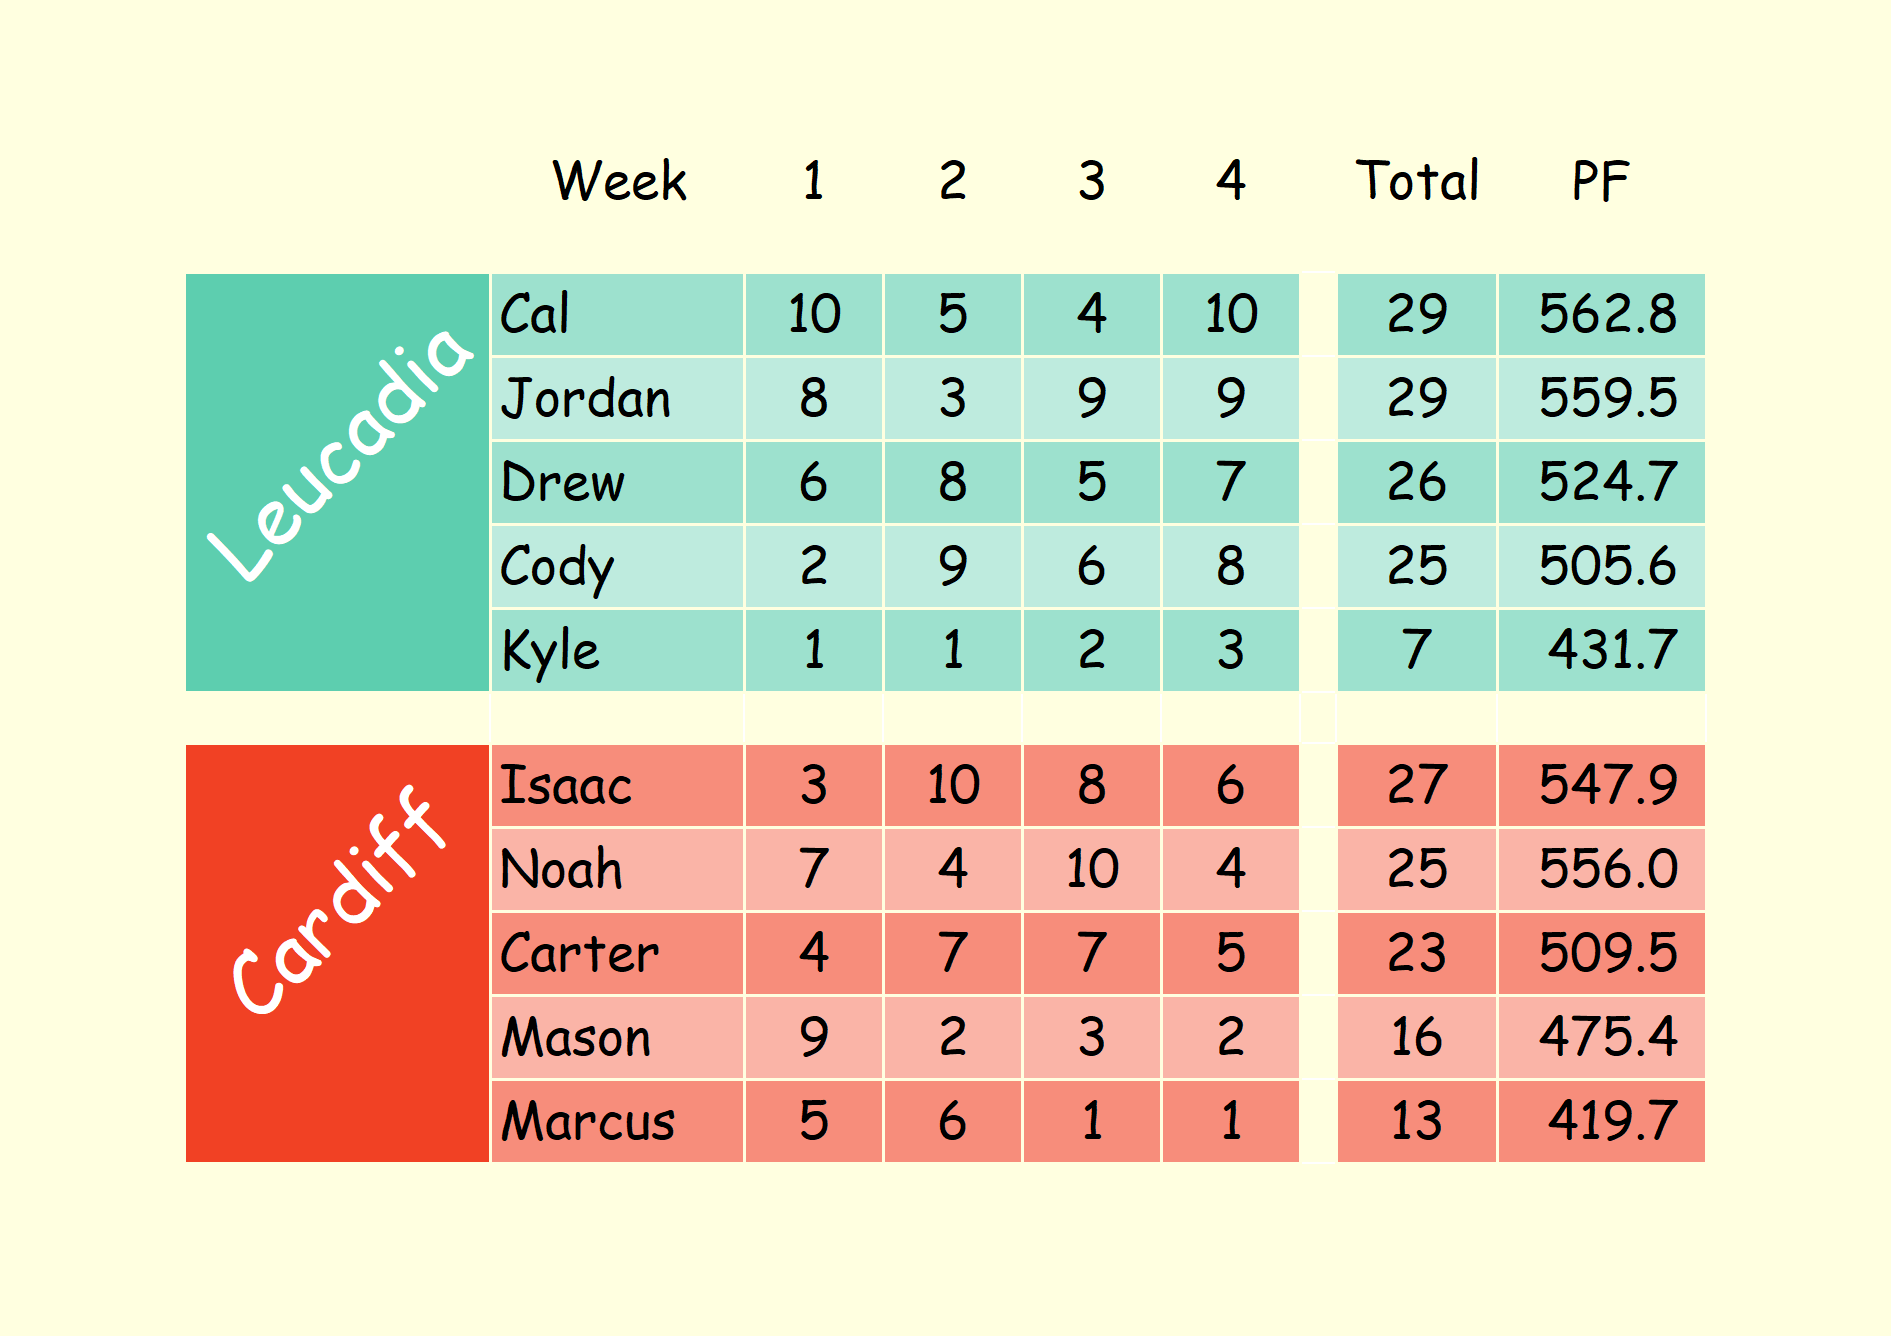
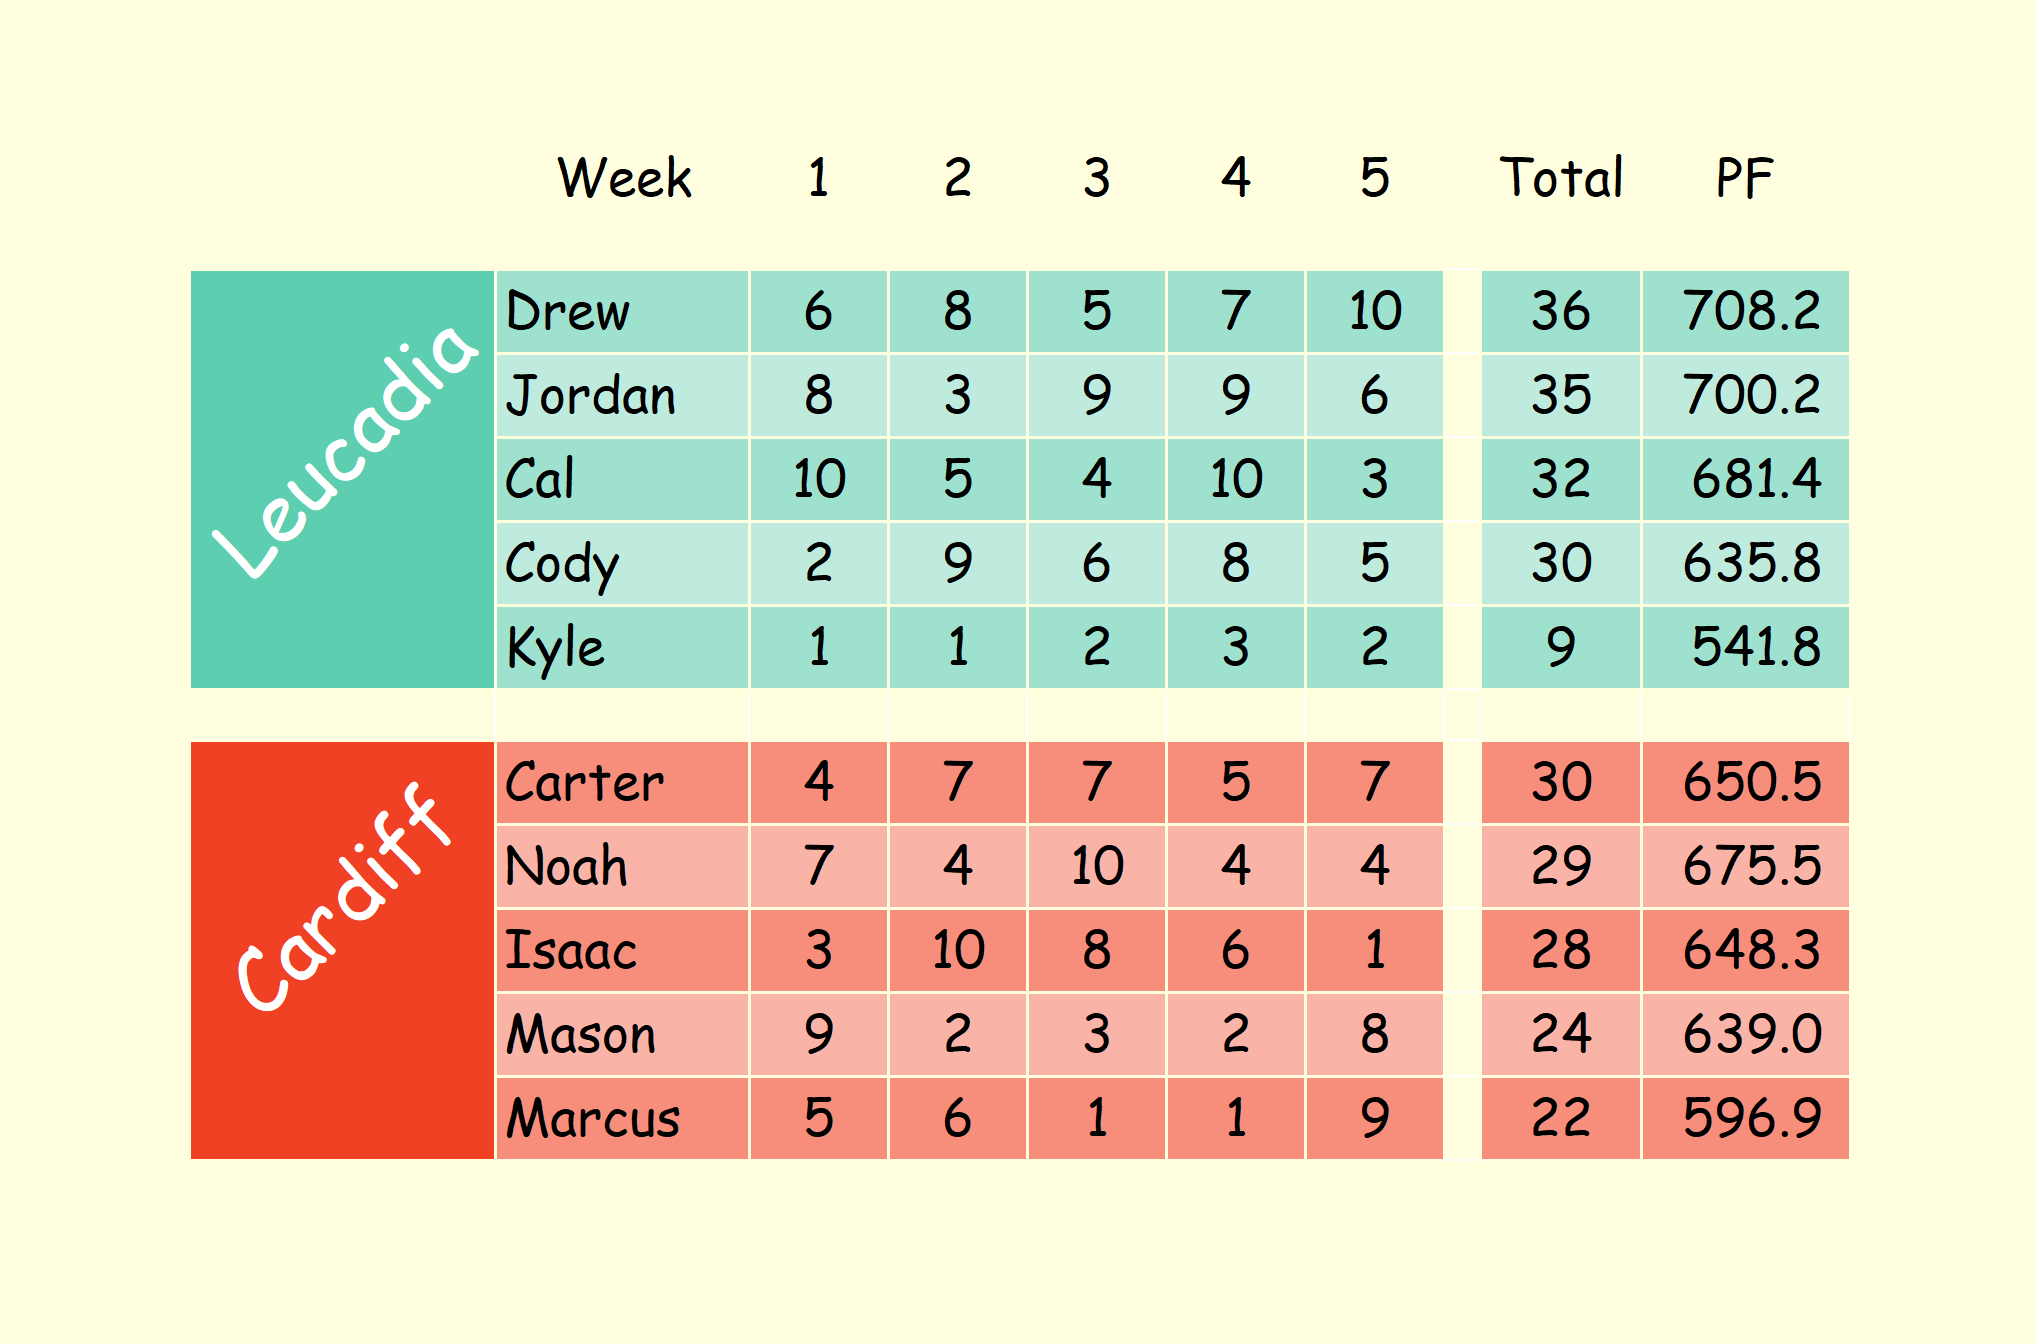
week 5 final

diff --git a/get_scores.py b/get_scores.py
@@ -20,8 +20,8 @@ DIV = {
 }
 
 l = League(LEAGUE_ID, 2026, ESPN_S2, SWID)
-week = l.current_week
-week = 4
+#week = l.current_week
+week = 5
 isProjected = False
 
 def get_score(matchup, home_away, isProjected):
